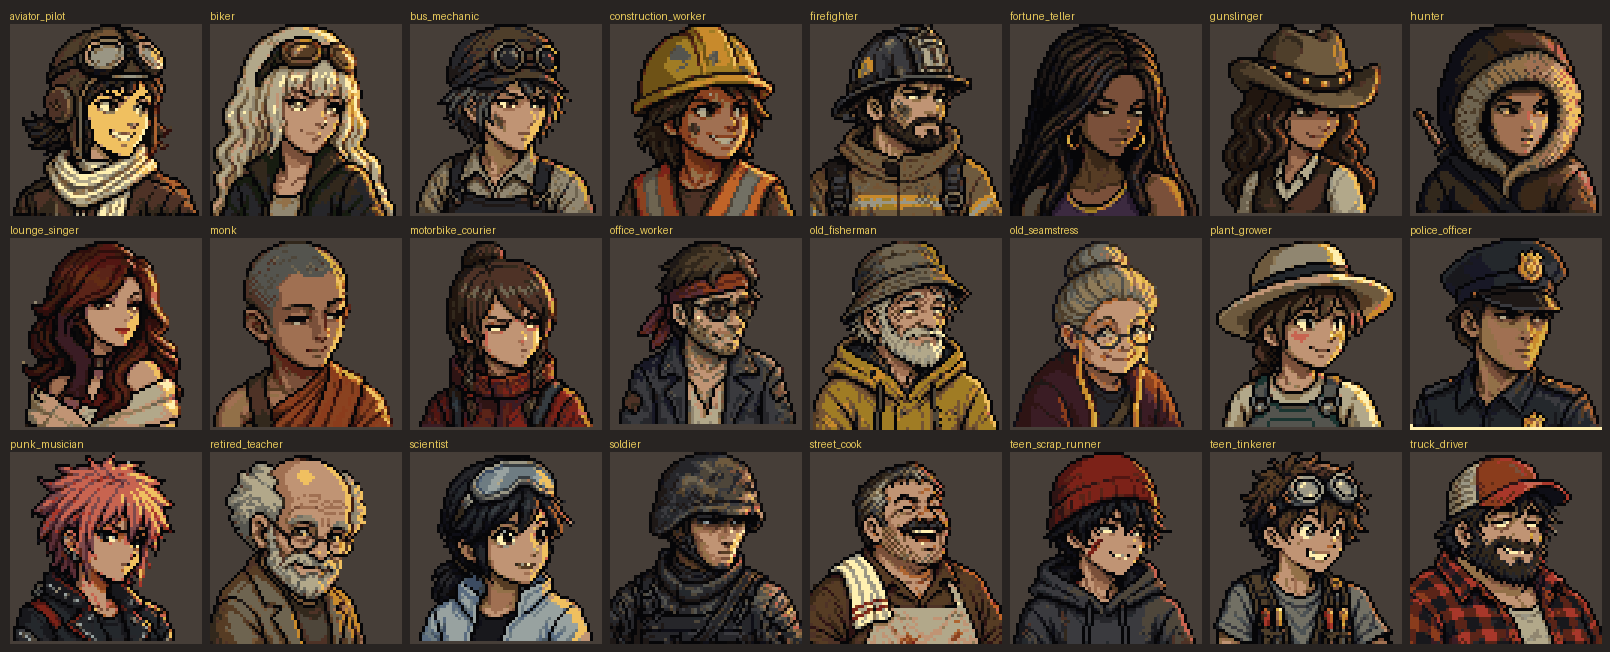
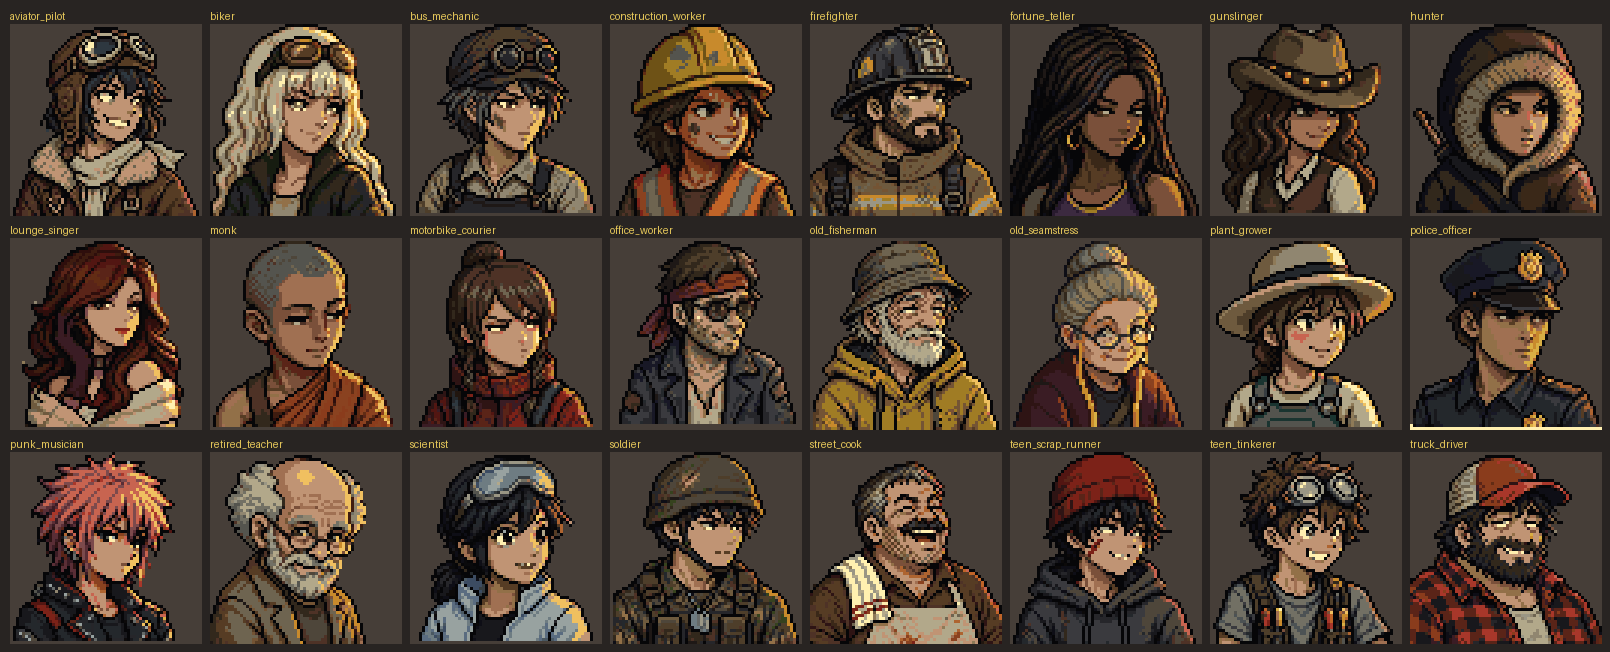
MV-585: restyle the pilot and soldier portraits to the reference style

Changed region(s): [[0.0, 0.0307, 0.1242, 0.3374], [0.3727, 0.6748, 0.4969, 1.0]]

diff --git a/docs/art/crew-style-reference.md b/docs/art/crew-style-reference.md
@@ -147,7 +147,7 @@ game's muted tone. Recipe in the manifest `cast_portraits`.
 Portraits must share one cartoon style and head size: the punk musician, courier, monk and
 teen scrap runner are the style references. Make a new portrait by editing the teen scrap
 runner portrait into the new person (manifest `cast_portraits.restyled_from_reference`); the
-truck driver, firefighter, fisherman, tinkerer and cook were redone that way after drifting
+truck driver, firefighter, fisherman, tinkerer, cook, pilot and soldier were redone that way after drifting
 towards a realistic look with smaller heads.
 
 ![The 24 cast portraits](crew-style-reference/previews/portraits.png)
